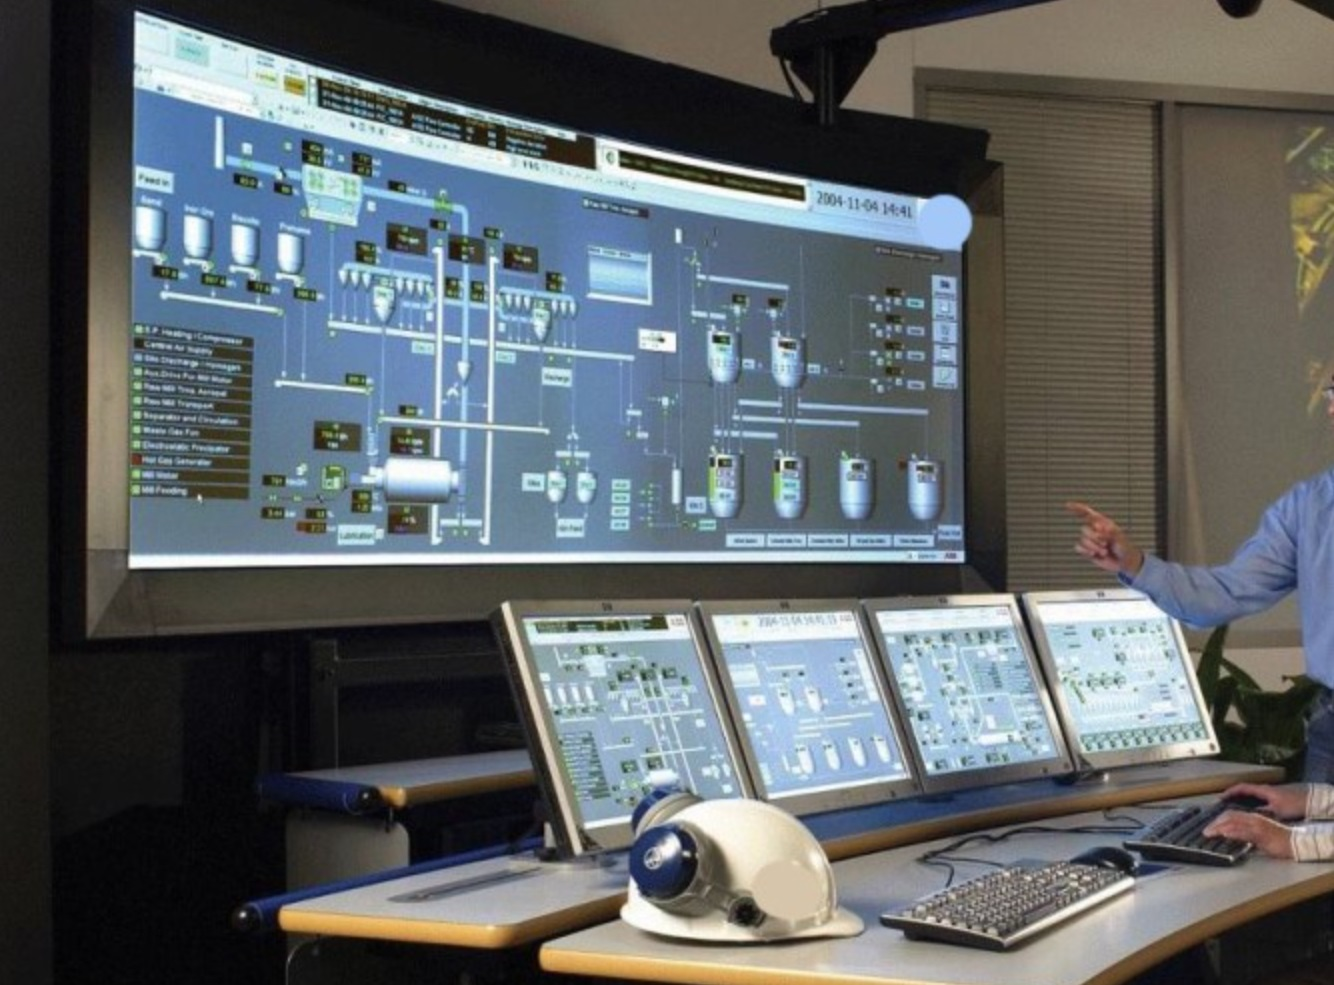
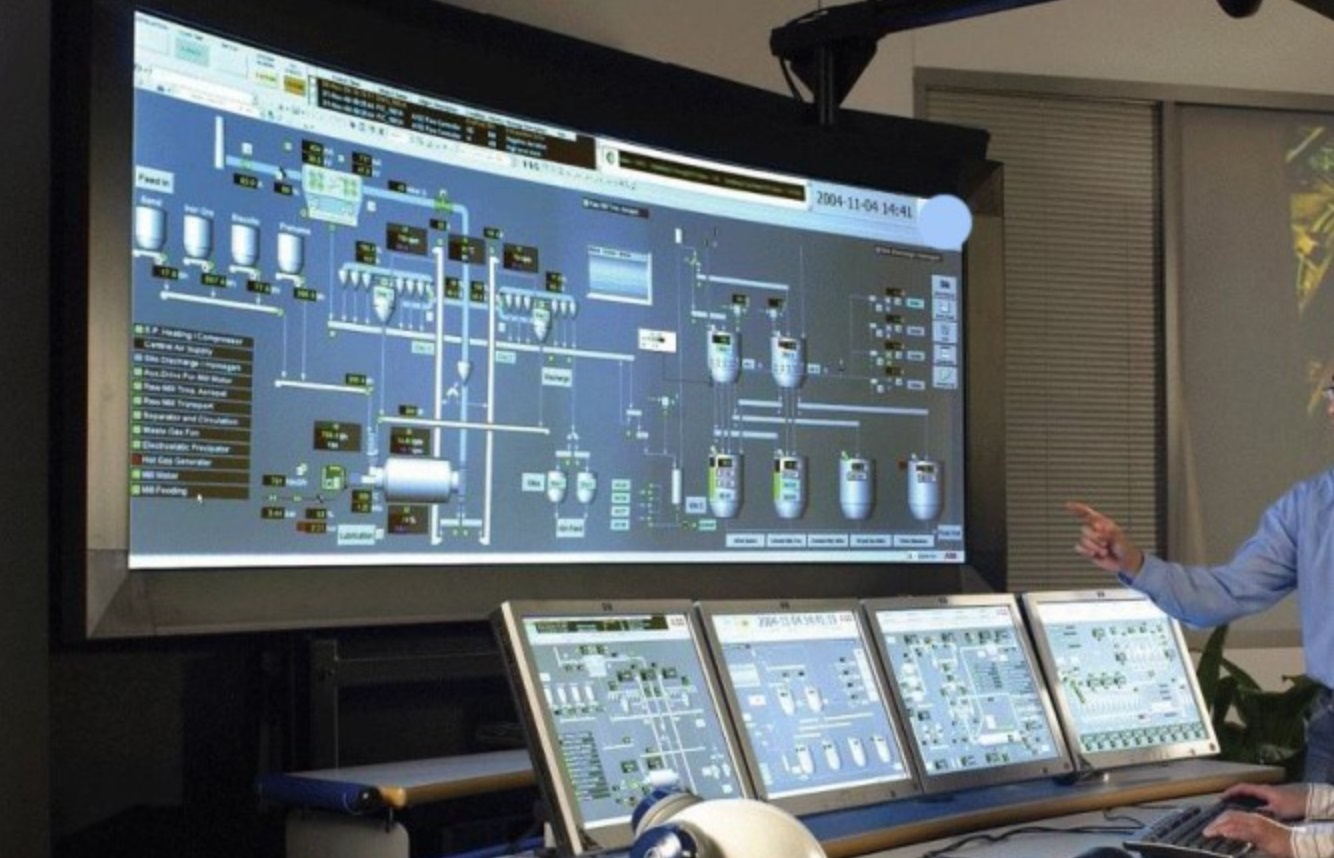
.

diff --git a/index.html b/index.html
@@ -971,7 +971,7 @@
           </div>
         </div>
       </div>
-
+      <hr style="margin-left: 8px;"/>
       <div class="footer-legal text-center position-relative">
         <div class="container">
           <div class="copyright" id="copyright"></div>
